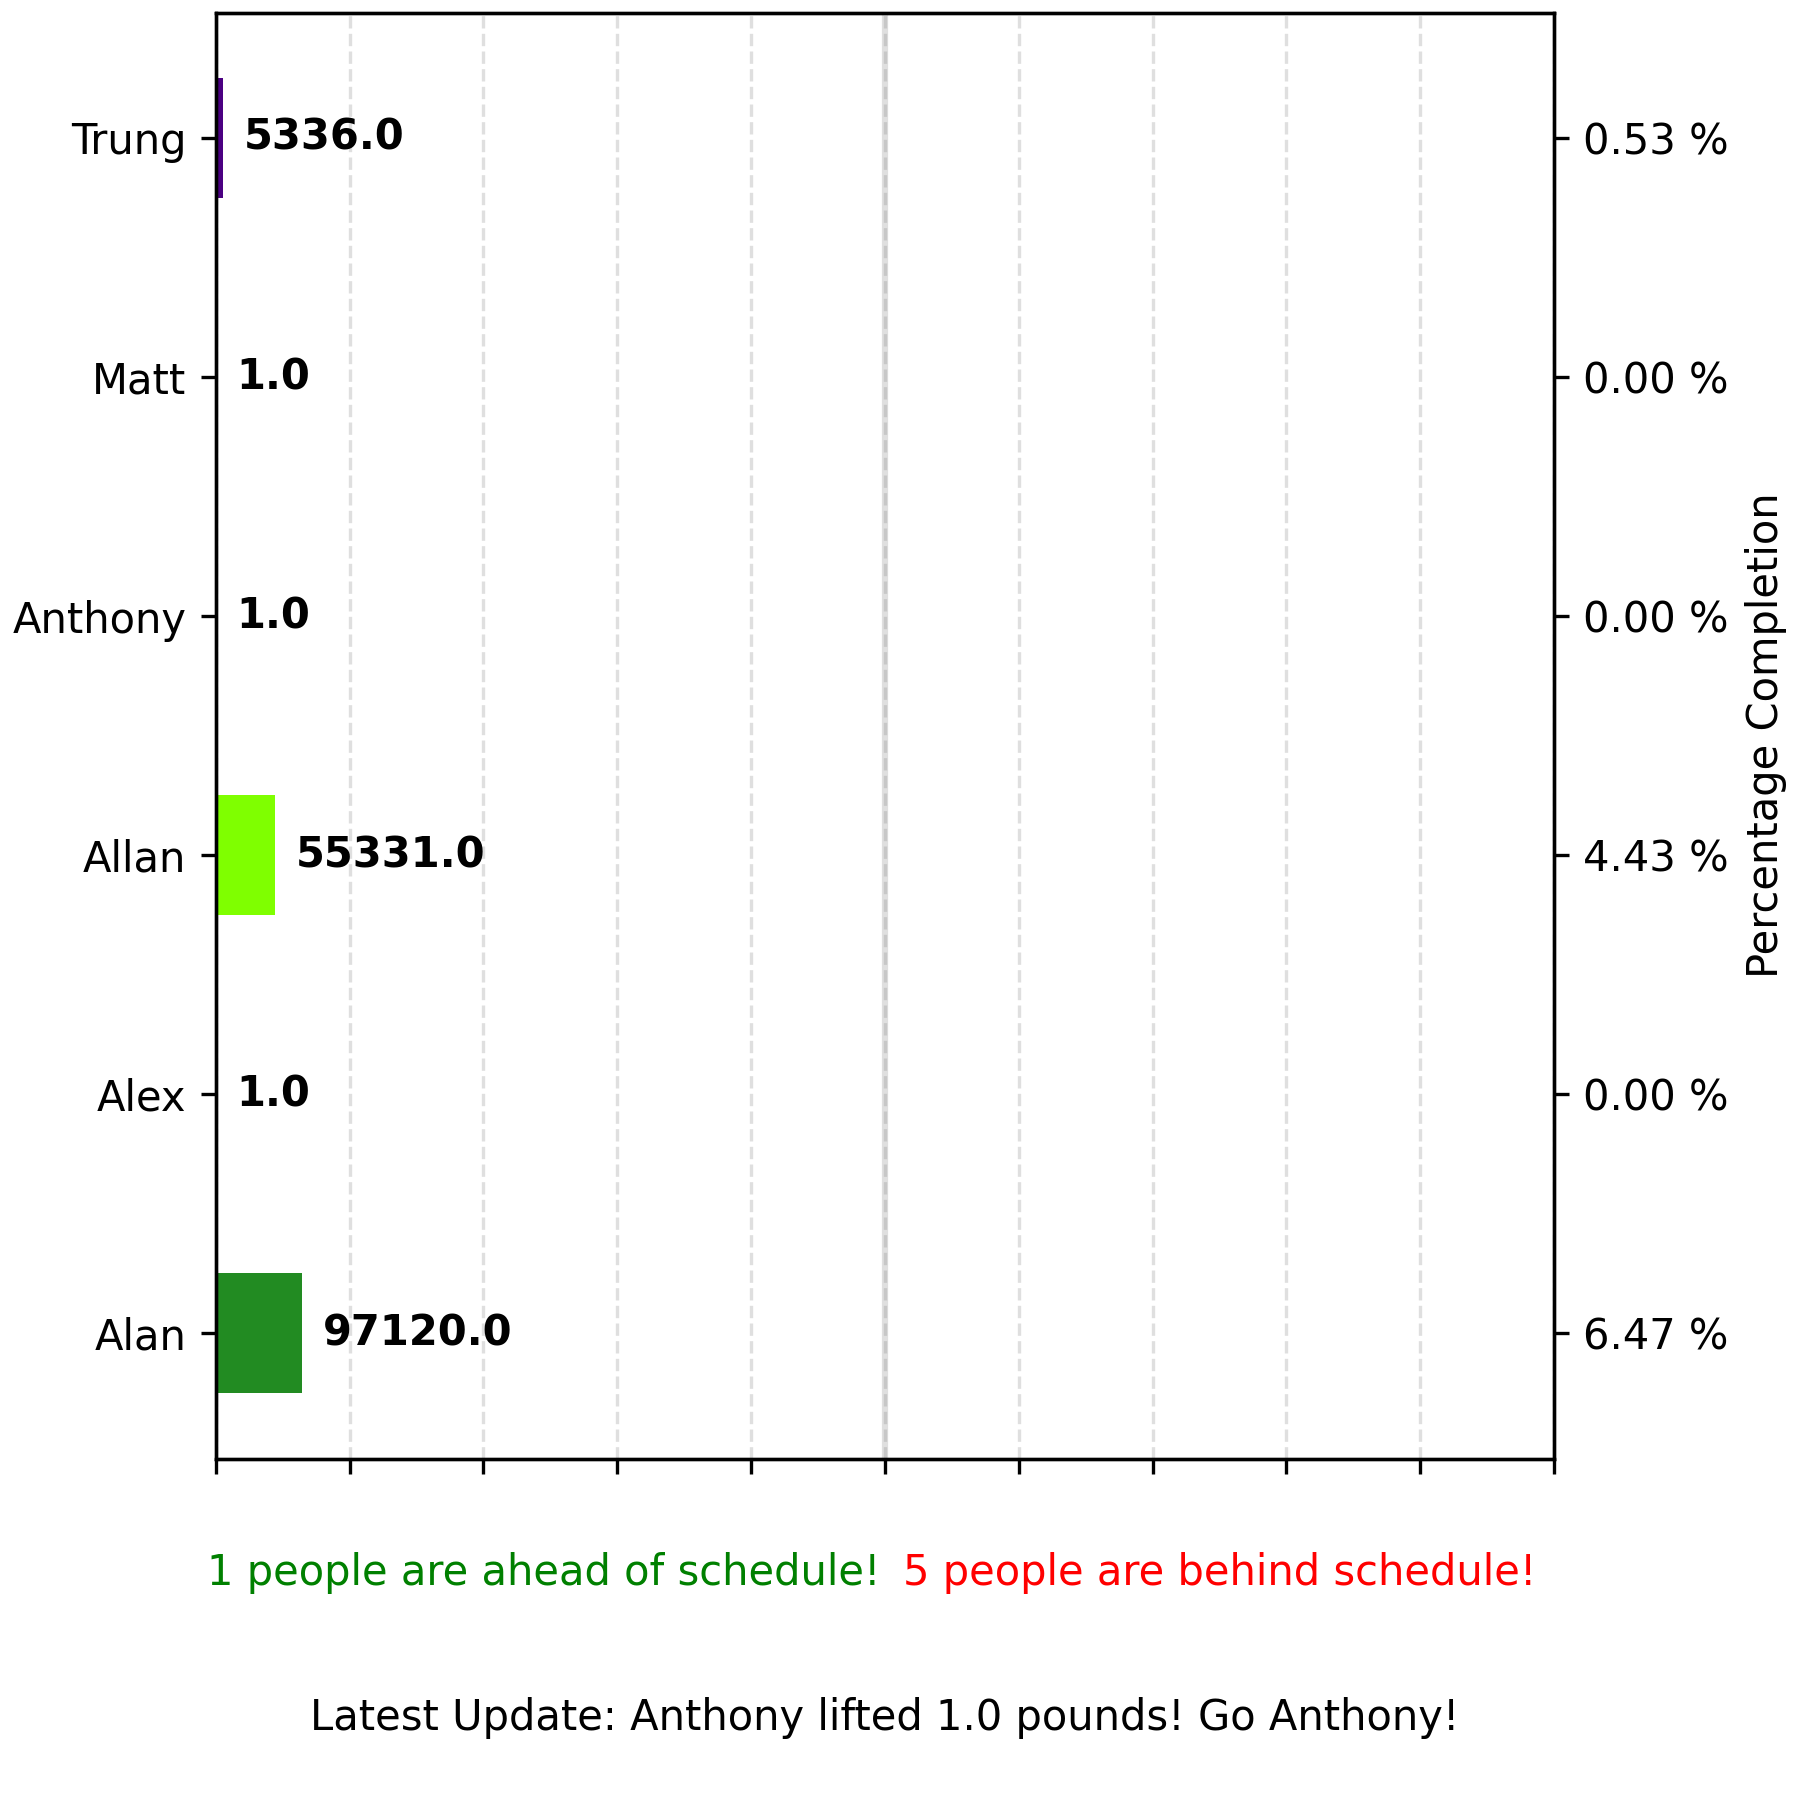
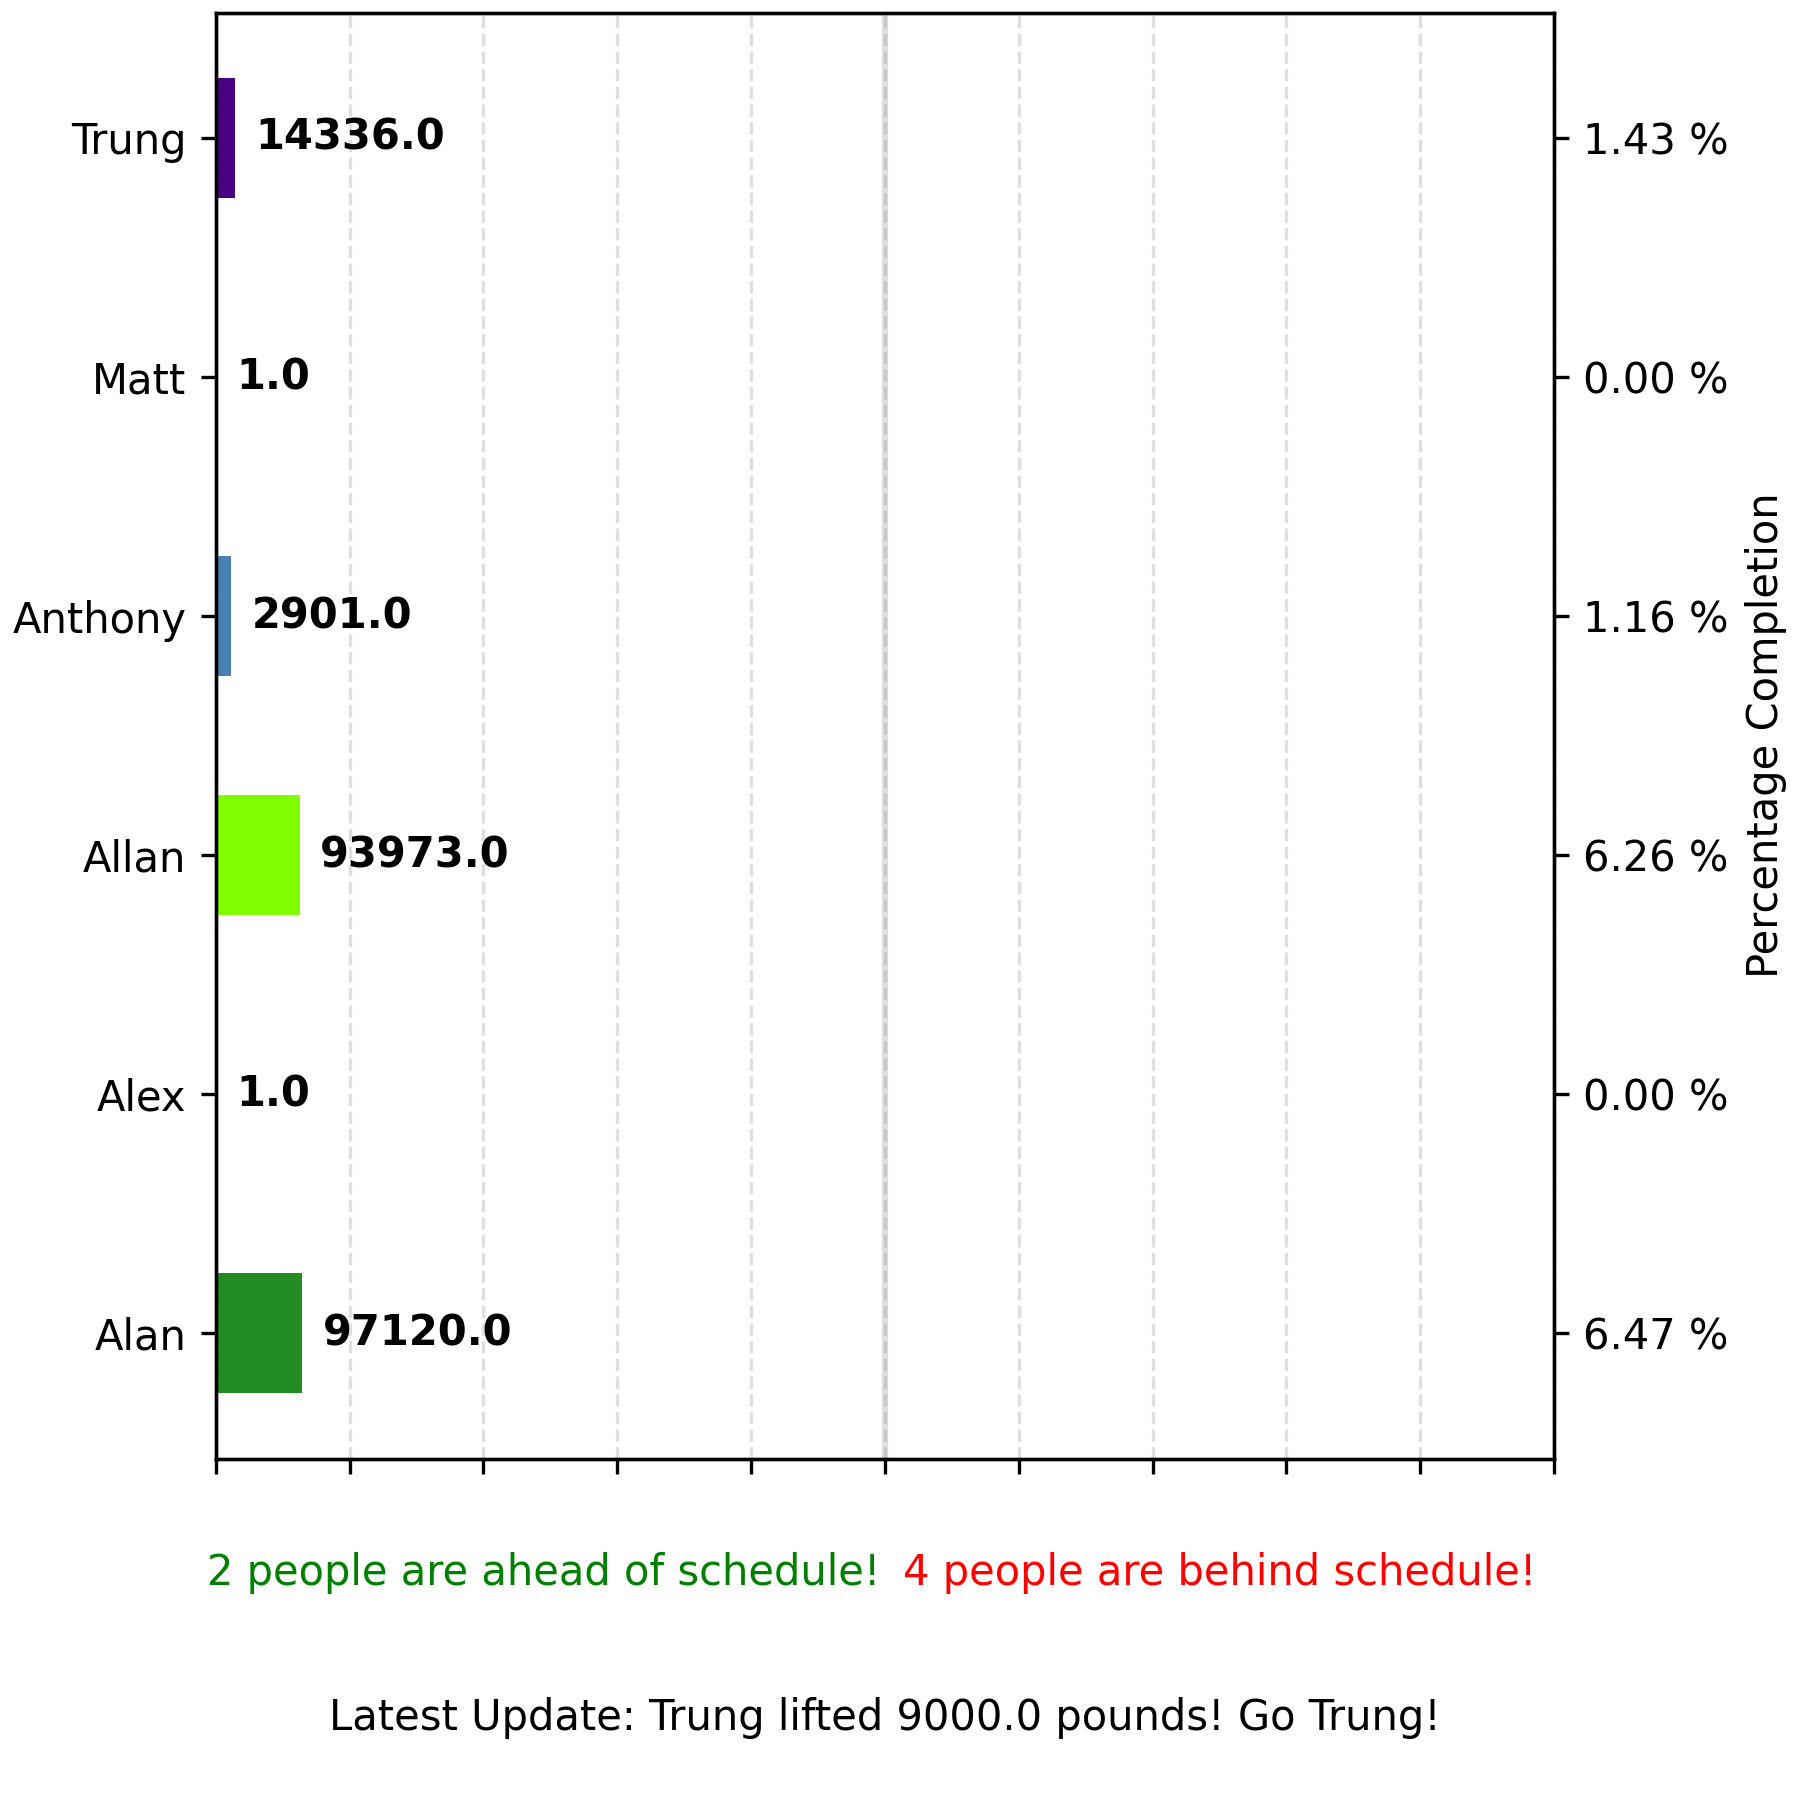
update

diff --git a/index.html b/index.html
@@ -20,7 +20,7 @@
   </head>
   <body>
     <h1>Lift One Million (Ish) Pounds</h1>
-    <p>Current Progress!</p>
+    <p> Pushup = 0.6BW, AB Wheel = 0.6BW, BW Squat = 0.25BW, Crunch = 0.4BW </p>
     <div class="image-container">
       <img src="LOMP.png" alt="Image 1">
       <img src="pie.png" alt="Image 2">
